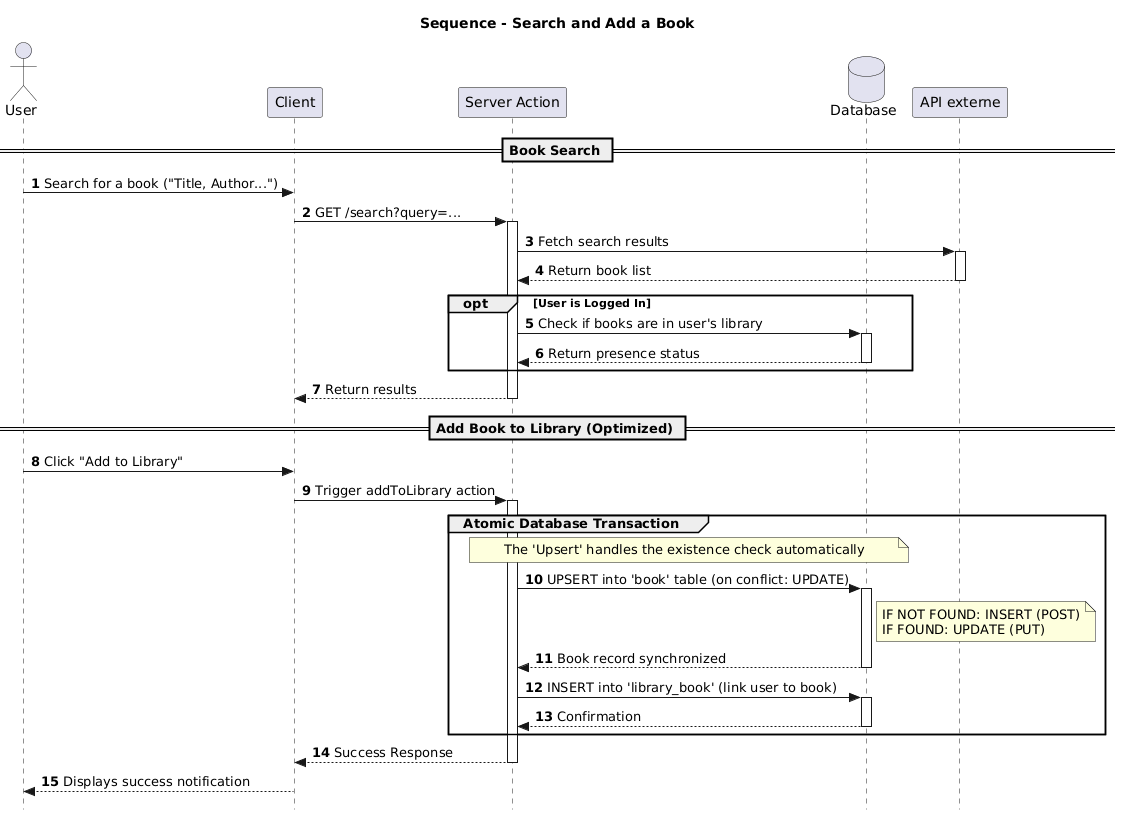
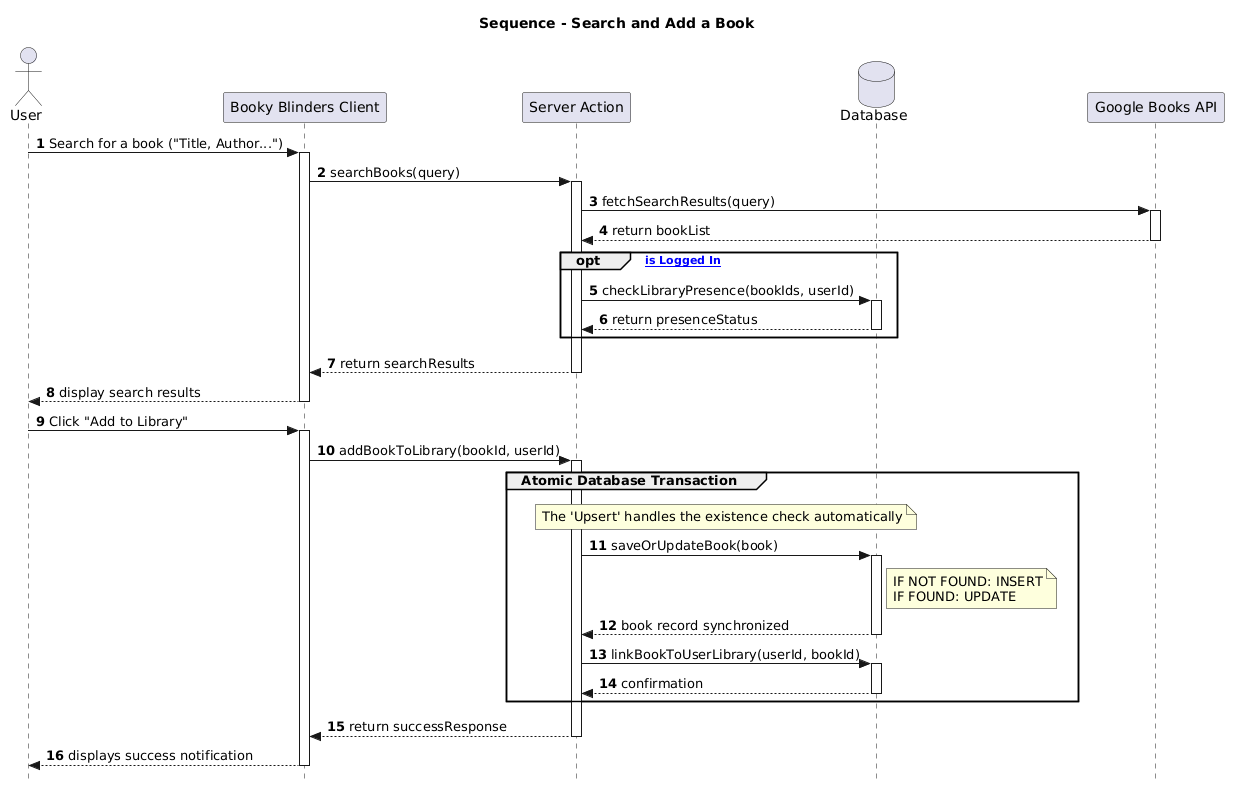
fix: fix sequence diagram with correct UML language

diff --git a/conception/SequenceDiagram.md b/conception/SequenceDiagram.md
@@ -14,52 +14,57 @@ participant "Server Action" as Server
 database "Database" as DB
 participant "Google Books API" as API
 
-== Book Search ==
-
 User -> Client : Search for a book ("Title, Author...")
-Client -> Server : GET /search?query=...
+activate Client
+
+Client -> Server : searchBooks(query)
 activate Server
 
-Server -> API : Fetch search results
+Server -> API : fetchSearchResults(query)
 activate API
-API --> Server : Return book list
+API --> Server : return bookList
 deactivate API
 
-opt User is Logged In
-    Server -> DB : Check if books are in user's library
+opt [User is Logged In]
+    Server -> DB : checkLibraryPresence(bookIds, userId)
     activate DB
-    DB --> Server : Return presence status
+    DB --> Server : return presenceStatus
     deactivate DB
 end
 
-Server --> Client : Return results
+Server --> Client : return searchResults
 deactivate Server
 
-== Add Book to Library ==
+Client --> User : display search results
+deactivate Client
+
 
 User -> Client : Click "Add to Library"
-Client -> Server : Trigger addToLibrary action
+activate Client
+
+Client -> Server : addBookToLibrary(bookId, userId)
 activate Server
 
 group Atomic Database Transaction
     note over Server, DB : The 'Upsert' handles the existence check automatically
     
-    Server -> DB : UPSERT into 'book' table (on conflict: UPDATE)
+    Server -> DB : saveOrUpdateBook(book)
     activate DB
-    note right of DB : IF NOT FOUND: INSERT (POST)\nIF FOUND: UPDATE (PUT)
-    DB --> Server : Book record synchronized
+    note right of DB : IF NOT FOUND: INSERT\nIF FOUND: UPDATE
+    DB --> Server : book record synchronized
     deactivate DB
 
-    Server -> DB : INSERT into 'library_book' (link user to book)
+    Server -> DB : linkBookToUserLibrary(userId, bookId)
     activate DB
-    DB --> Server : Confirmation
+    DB --> Server : confirmation
     deactivate DB
 end
 
-Server --> Client : Success Response
+Server --> Client : return successResponse
 deactivate Server
 
-Client --> User : Displays success notification
+Client --> User : displays success notification
+deactivate Client
 
 @enduml
 ```
